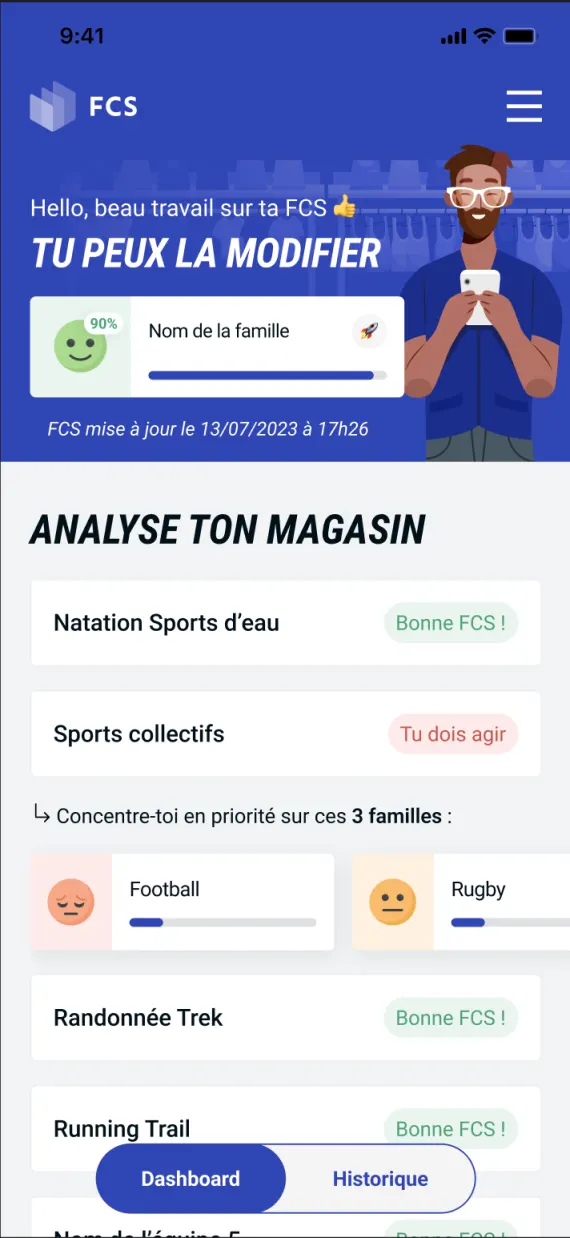
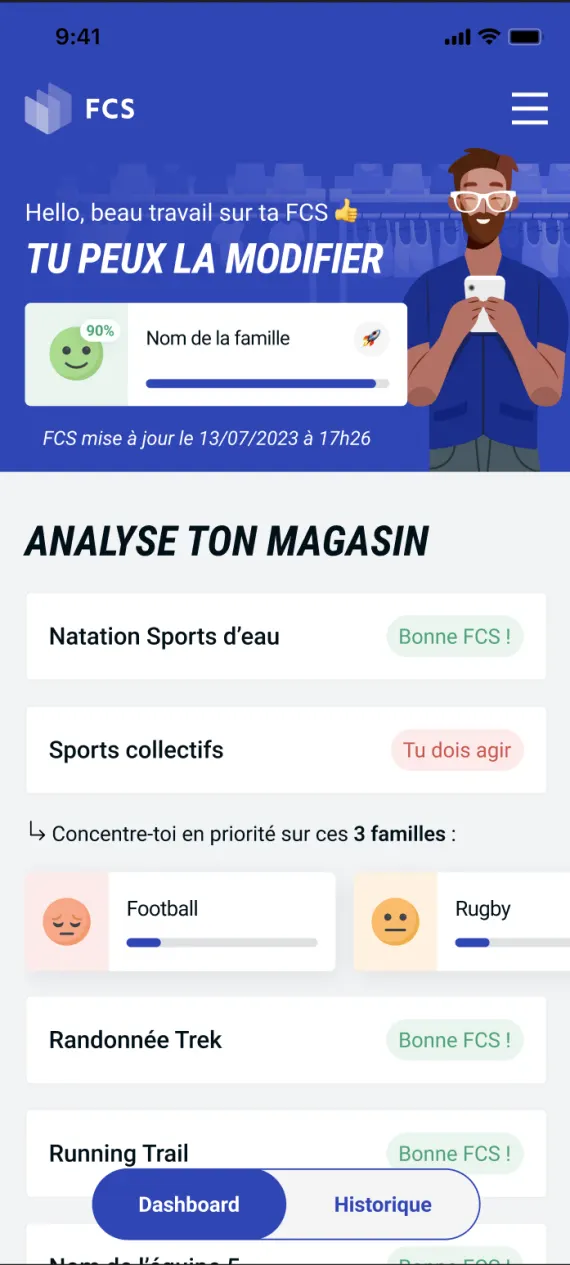
fix: opacifie les contrôles et réduit le noir en haut des captures
Le quadrillage du champ de cubes ne passait pas au-dessus des boutons : il
transparaissait à travers leurs fonds à 5% d'opacité. Ces fonds deviennent
opaques, à la couleur exactement équivalente composée sur #0a0a0a.

Les captures portrait sont recadrées au ratio de l'écran du châssis : le
object-fit contain y ajoutait une bande noire d'une dizaine de pixels, qui
s'additionnait à l'encoche du téléphone.

Le bandeau du navigateur passe de 6 à 4,5% de la largeur — au-dessus d'une
capture rognée par la carte, il se lisait comme une marge. L'aspect-ratio
du châssis suit, pour que l'écran reste exactement en 16:10.

diff --git a/components/atoms/DeviceFrame.vue b/components/atoms/DeviceFrame.vue
@@ -36,11 +36,11 @@ defineProps<{
 }
 
 .device-frame--browser {
-  /* 1.46 et non 16/10 : le bandeau supérieur occupe 6% de la largeur, donc
+  /* Ni 16/10 ni 1.46 : le bandeau supérieur occupe 4,5% de la largeur, donc
      c'est le châssis qui doit être plus haut pour que l'ÉCRAN, lui, retombe
-     exactement en 16:10 — le ratio des captures. Sinon elles y perdent 10%
-     de hauteur. */
-  aspect-ratio: 1.46;
+     exactement en 16:10 — le ratio des captures. Toute retouche du bandeau
+     impose de recalculer cette valeur : 1 / (0,625 + hauteur du bandeau). */
+  aspect-ratio: 1.4925;
 }
 
 /* Le corps est un enfant plutôt que le conteneur lui-même : un conteneur ne
@@ -95,7 +95,9 @@ defineProps<{
   align-items: center;
   gap: 1.2cqw;
   padding: 0 2cqw;
-  height: 6cqw;
+  /* Resserré : au-dessus d'une capture rognée par la carte, un bandeau épais
+     se lit comme une marge noire plutôt que comme le haut d'un navigateur. */
+  height: 4.5cqw;
   flex-shrink: 0;
   background: #1a1a1a;
 }

diff --git a/components/atoms/IconButton.vue b/components/atoms/IconButton.vue
@@ -30,7 +30,7 @@ defineEmits<{
 .icon-button {
   width: 40px;
   height: 40px;
-  background: rgba(255, 255, 255, 0.05);
+  background: #161616;
   border: 1px solid rgba(255, 255, 255, 0.15);
   border-radius: 0;
   display: flex;
@@ -42,12 +42,12 @@ defineEmits<{
 }
 
 .icon-button:hover {
-  background: rgba(255, 255, 255, 0.1);
+  background: #222222;
   border-color: rgba(255, 255, 255, 0.25);
 }
 
 .icon-button.active {
-  background: rgba(66, 184, 131, 0.15);
+  background: #12241c;
   border-color: rgba(66, 184, 131, 0.4);
 }
 

diff --git a/components/atoms/SocialSquare.vue b/components/atoms/SocialSquare.vue
@@ -43,7 +43,7 @@ const handleClick = () => {
 .social-square {
   width: 60px;
   height: 60px;
-  background: rgba(255, 255, 255, 0.05);
+  background: #161616;
   border: 1px solid rgba(255, 255, 255, 0.15);
   border-radius: 0;
   display: flex;
@@ -64,7 +64,7 @@ const handleClick = () => {
   content: '';
   position: absolute;
   inset: -8px;
-  background: rgba(255, 255, 255, 0.15);
+  background: #2f2f2f;
   border: 1px solid rgba(255, 255, 255, 0.3);
   z-index: -1;
   border-radius: 0;

diff --git a/components/molecules/HeaderBar.vue b/components/molecules/HeaderBar.vue
@@ -107,7 +107,7 @@ const socialLinks = [
 .header-social {
   width: 40px;
   height: 40px;
-  background: rgba(255, 255, 255, 0.05);
+  background: #161616;
   border: 1px solid rgba(255, 255, 255, 0.15);
   display: flex;
   align-items: center;
@@ -118,7 +118,7 @@ const socialLinks = [
 }
 
 .header-social:hover {
-  background: rgba(255, 255, 255, 0.1);
+  background: #222222;
   border-color: rgba(255, 255, 255, 0.25);
   color: #42b883;
 }

diff --git a/components/organisms/ProfileSection.vue b/components/organisms/ProfileSection.vue
@@ -155,13 +155,13 @@ const contactItems = computed(() => [
 
 .availability-chip--on {
   color: #42b883;
-  background: rgba(66, 184, 131, 0.1);
+  background: #101b16;
   border-color: rgba(66, 184, 131, 0.3);
 }
 
 .availability-chip--off {
   color: #e05260;
-  background: rgba(224, 82, 96, 0.1);
+  background: #1f1113;
   border-color: rgba(224, 82, 96, 0.3);
 }
 
